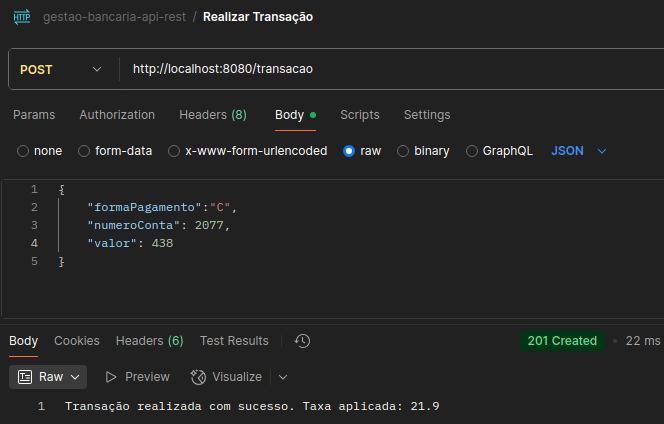
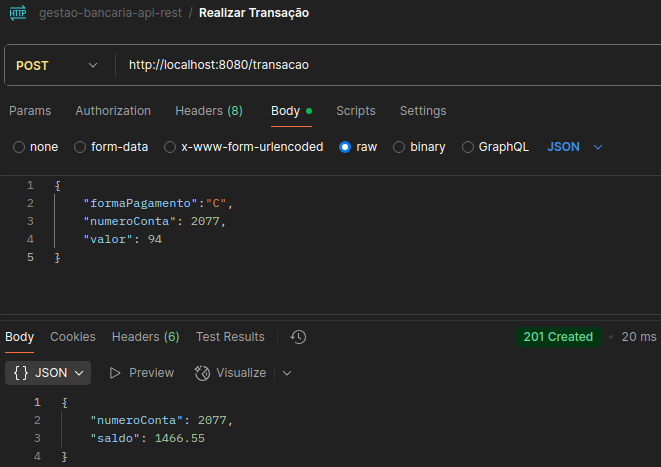
Modificação das imagens e correção do README

diff --git a/README.md b/README.md
@@ -48,7 +48,8 @@ public record ContaDTO(Integer id, float saldo) {}
   query que será executada
 - O arquivo deve ser salvo em um diretório específico: ```db/migration```
 - O nome do arquivo sempre deve começar com Vn__, com n seguindo a ordem dos scripts
-- Após a execução do script ```V1__create-table-conta.sql```, a tabela foi criada no sistema
+- Após a execução do script ```V1__create-table-conta.sql``` (executado automaticamente ao rodar a aplicação), a tabela 
+  foi criada no sistema
 
 ![tabela criada no sistema](src/main/resources/screenshots/conta/tabelaCriada.png)
 - Ao executar o método POST no Postman, tem-se:
@@ -58,7 +59,8 @@ public record ContaDTO(Integer id, float saldo) {}
 ![conta criada na tabela](src/main/resources/screenshots/conta/contaCriadaNaTabela.png)
 
 ### Criação do método GET
-- Foi criado o método GET fazendo com que seja impossível retornar todas as contas, por motivos de segurança.
+- O método GET foi criado de uma forma que seja impossível retornar todas as contas, por motivos de 
+  segurança.
 - Ao utilizar o parâmetro "numero_conta" com um valor existente, obtém-se o seguinte resultado:
 
 ![get conta 200](src/main/resources/screenshots/conta/getConta200.png)
@@ -80,30 +82,24 @@ public record ContaDTO(Integer id, float saldo) {}
 ### Criação da Entidade JPA Transação, DTO Record e Controller
 
 ### Realização da Lógica de Taxas
-- Saldo Antes PIX
+- Saldo Antes da Transação
 
-![saldo antes da transação pix](src/main/resources/screenshots/transacao/saldoAntesTransacaoPix.png)
+![saldo antes da transação](src/main/resources/screenshots/transacao/saldoAntesTransacao.png)
 - Transação PIX
 
 ![transação pix](src/main/resources/screenshots/transacao/transacaoPix.png)
-- Saldo Após PIX
-
-![saldo após a transação pix](src/main/resources/screenshots/transacao/saldoAposTransacaoPix.png)
 - Transação Crédito
 
 ![transação crédito](src/main/resources/screenshots/transacao/transacaoCredito.png)
-- Saldo Após Crédito
-
-![saldo após a transação crédito](src/main/resources/screenshots/transacao/saldoAposTransacaoCredito.png)
-- Saldo Antes Débito
-
-![saldo antes da transação débito](src/main/resources/screenshots/transacao/saldoAntesTransacaoDebito.png)
 - Transação Débito
 
 ![transação débito](src/main/resources/screenshots/transacao/transacaoDebito.png)
-- Saldo Após Débito
 
-![saldo após a transação débito](src/main/resources/screenshots/transacao/saldoAposTransacaoDebito.png)
+- O JSON em certos momentos retorna o saldo com 4 casas decimais, porém no banco o saldo é persistido com somente 
+  duas casas decimais
+
+![saldo com duas casas decimais no banco](src/main/resources/screenshots/transacao/saldoNoBancoComDuasCasas.png)
+
 - Saldo Insuficiente
 
 ![saldo insuficiente](src/main/resources/screenshots/transacao/saldoInsuficiente.png)
